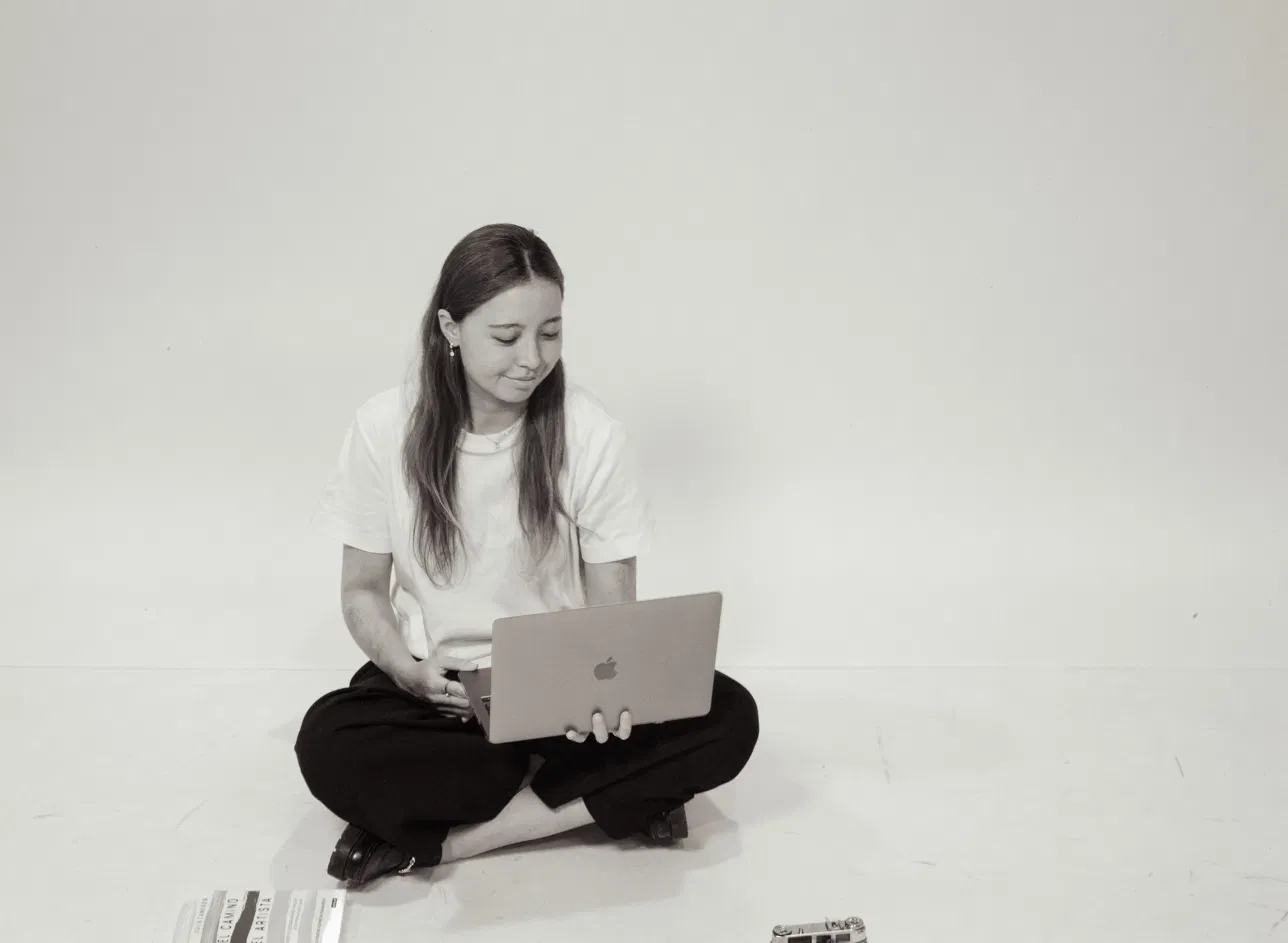
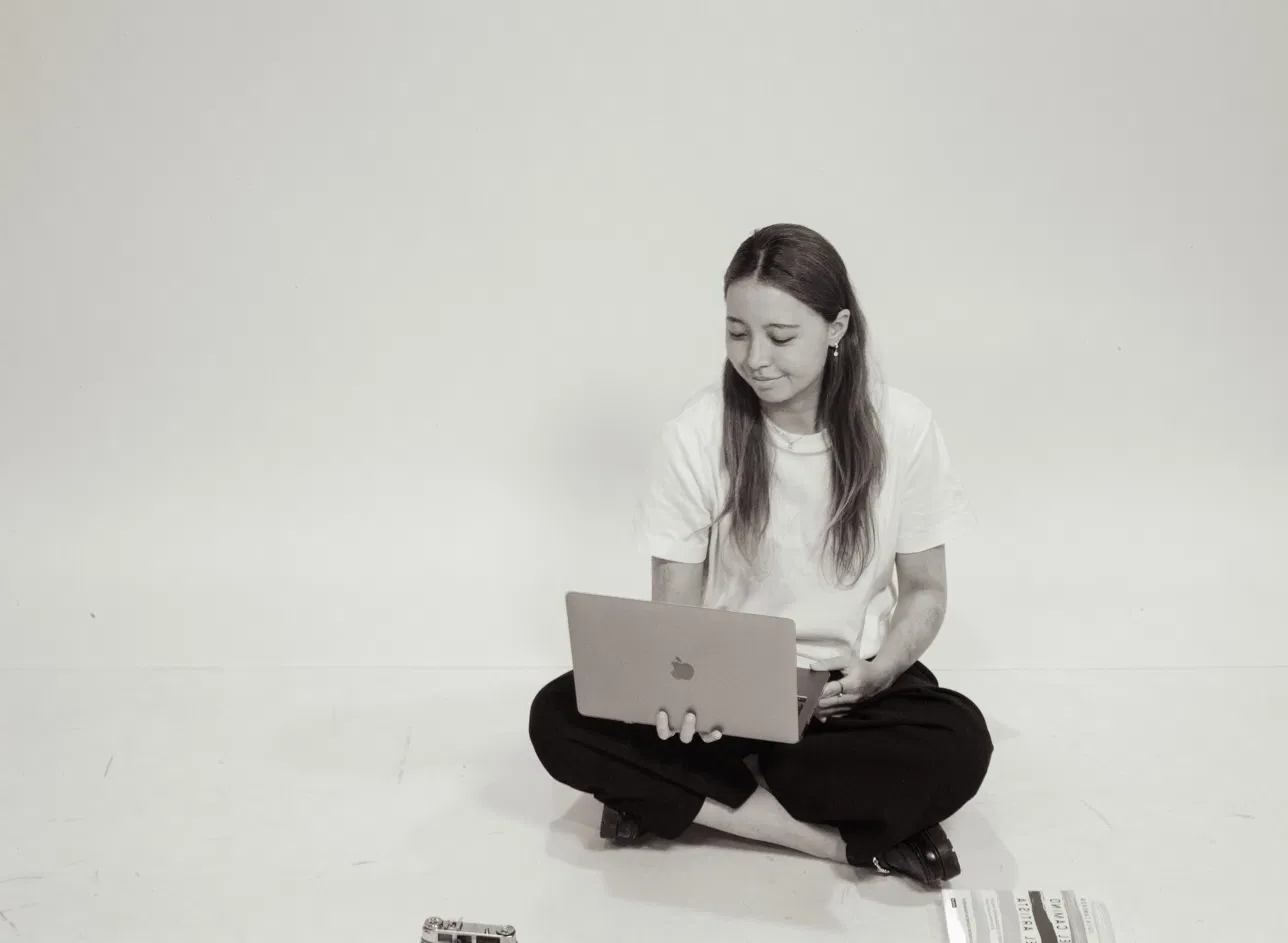
Swap Mabe thumbnail/closing photo, mirror contact photo
Uses the new kitchen render (person viewing the open stove) as both
the homepage card thumbnail and the closing image in the Mabe case
study, replacing the old pot-drawer render. Flips the contact-section
photo horizontally.

Changed region(s): [[0.2174, 0.2153, 0.8696, 1.0], [0.1553, 0.9533, 0.2174, 1.0], [0.9938, 0.9533, 1.0, 0.9841]]

diff --git a/index.html b/index.html
@@ -526,7 +526,7 @@
       </div>
       <div class="project-grid reveal">
         <a href="#proyecto-mabe" class="project-card" aria-expanded="false">
-          <span class="project-card-thumb"><img src="assets/projects/mabe-equipo.webp" alt="" loading="lazy"></span>
+          <span class="project-card-thumb"><img src="assets/projects/mabe-render-cocina.webp" alt="" loading="lazy"></span>
           <span class="project-card-body">
             <span class="project-card-tag">diseño industrial</span>
             <span class="project-card-name">Mabe — Rediseño de estufa</span>
@@ -612,7 +612,7 @@
 
             <div class="plate alt-order">
               <div class="plate-media">
-                <img src="assets/projects/mabe-render-cocina.webp" alt="Render de una cocina con el usuario abriendo el cajón inferior de la estufa, donde quedan colgados dos sartenes">
+                <img src="assets/projects/mabe-render-cocina.webp" alt="Render de una cocina moderna con un usuario observando la estufa Mabe con el quemador abierto, junto a barra de mármol y fregadero">
               </div>
               <div class="plate-body">
                 <span class="plate-tag">aprendizaje</span>
